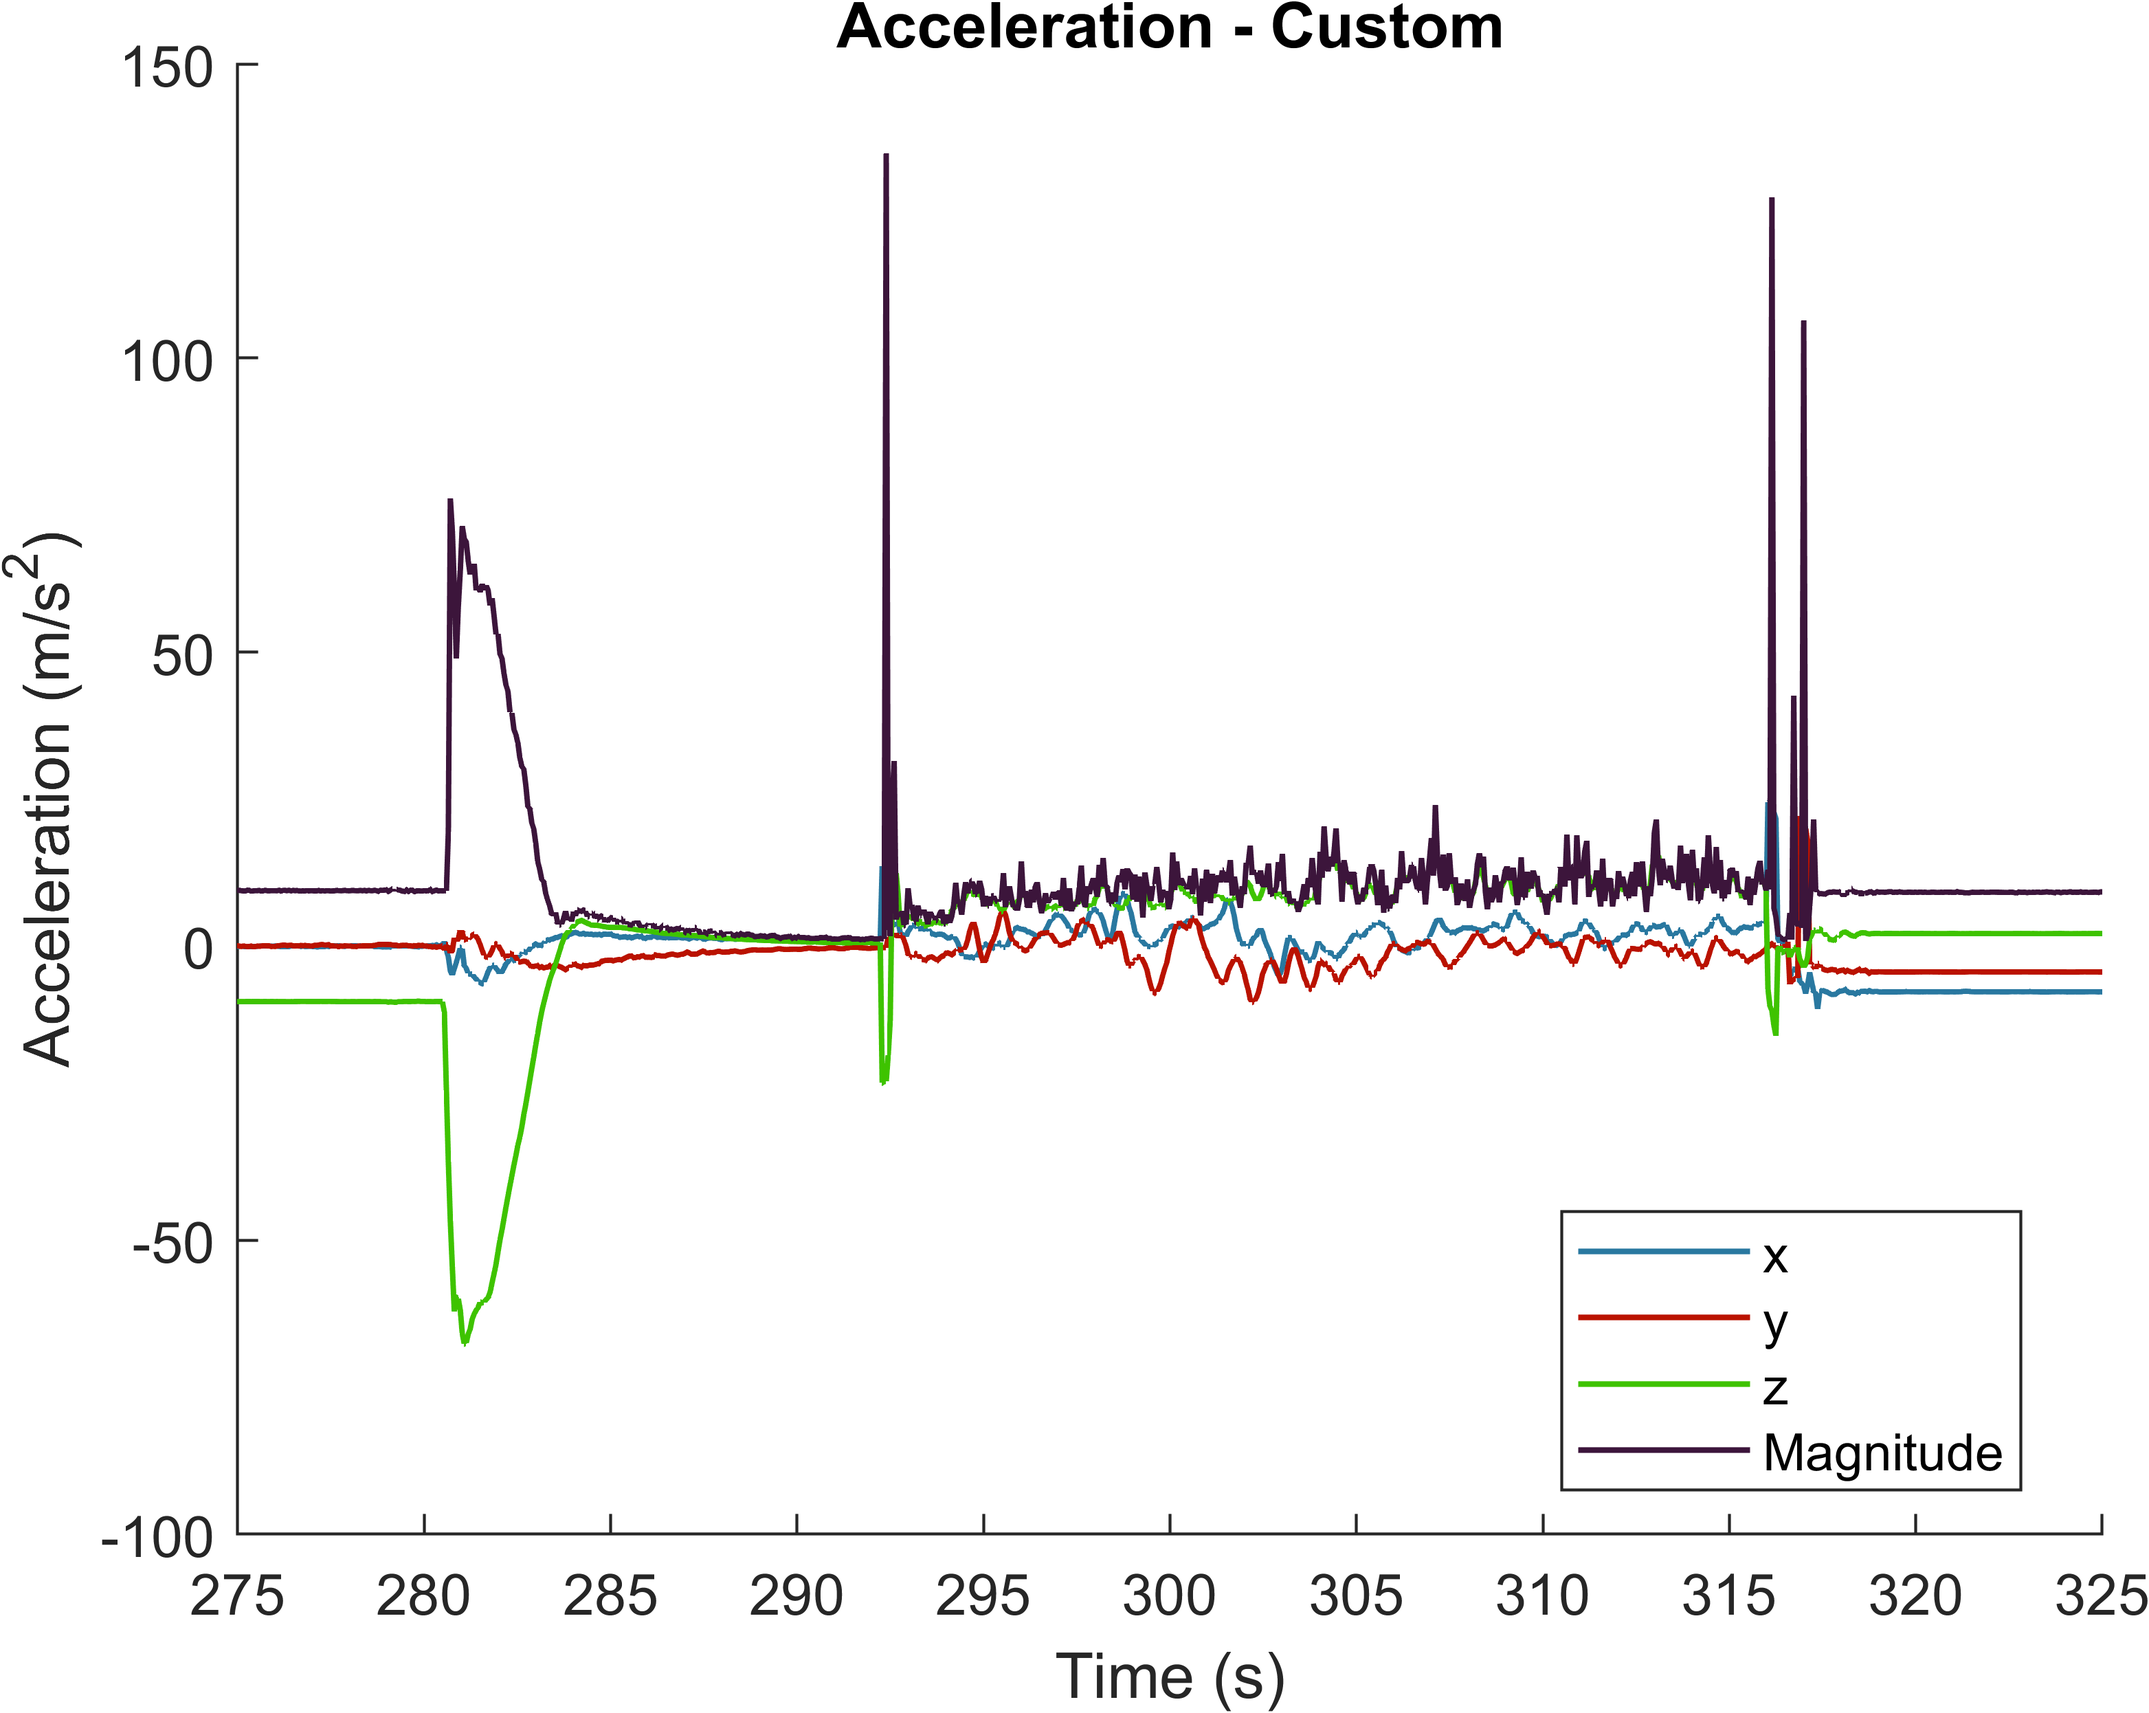
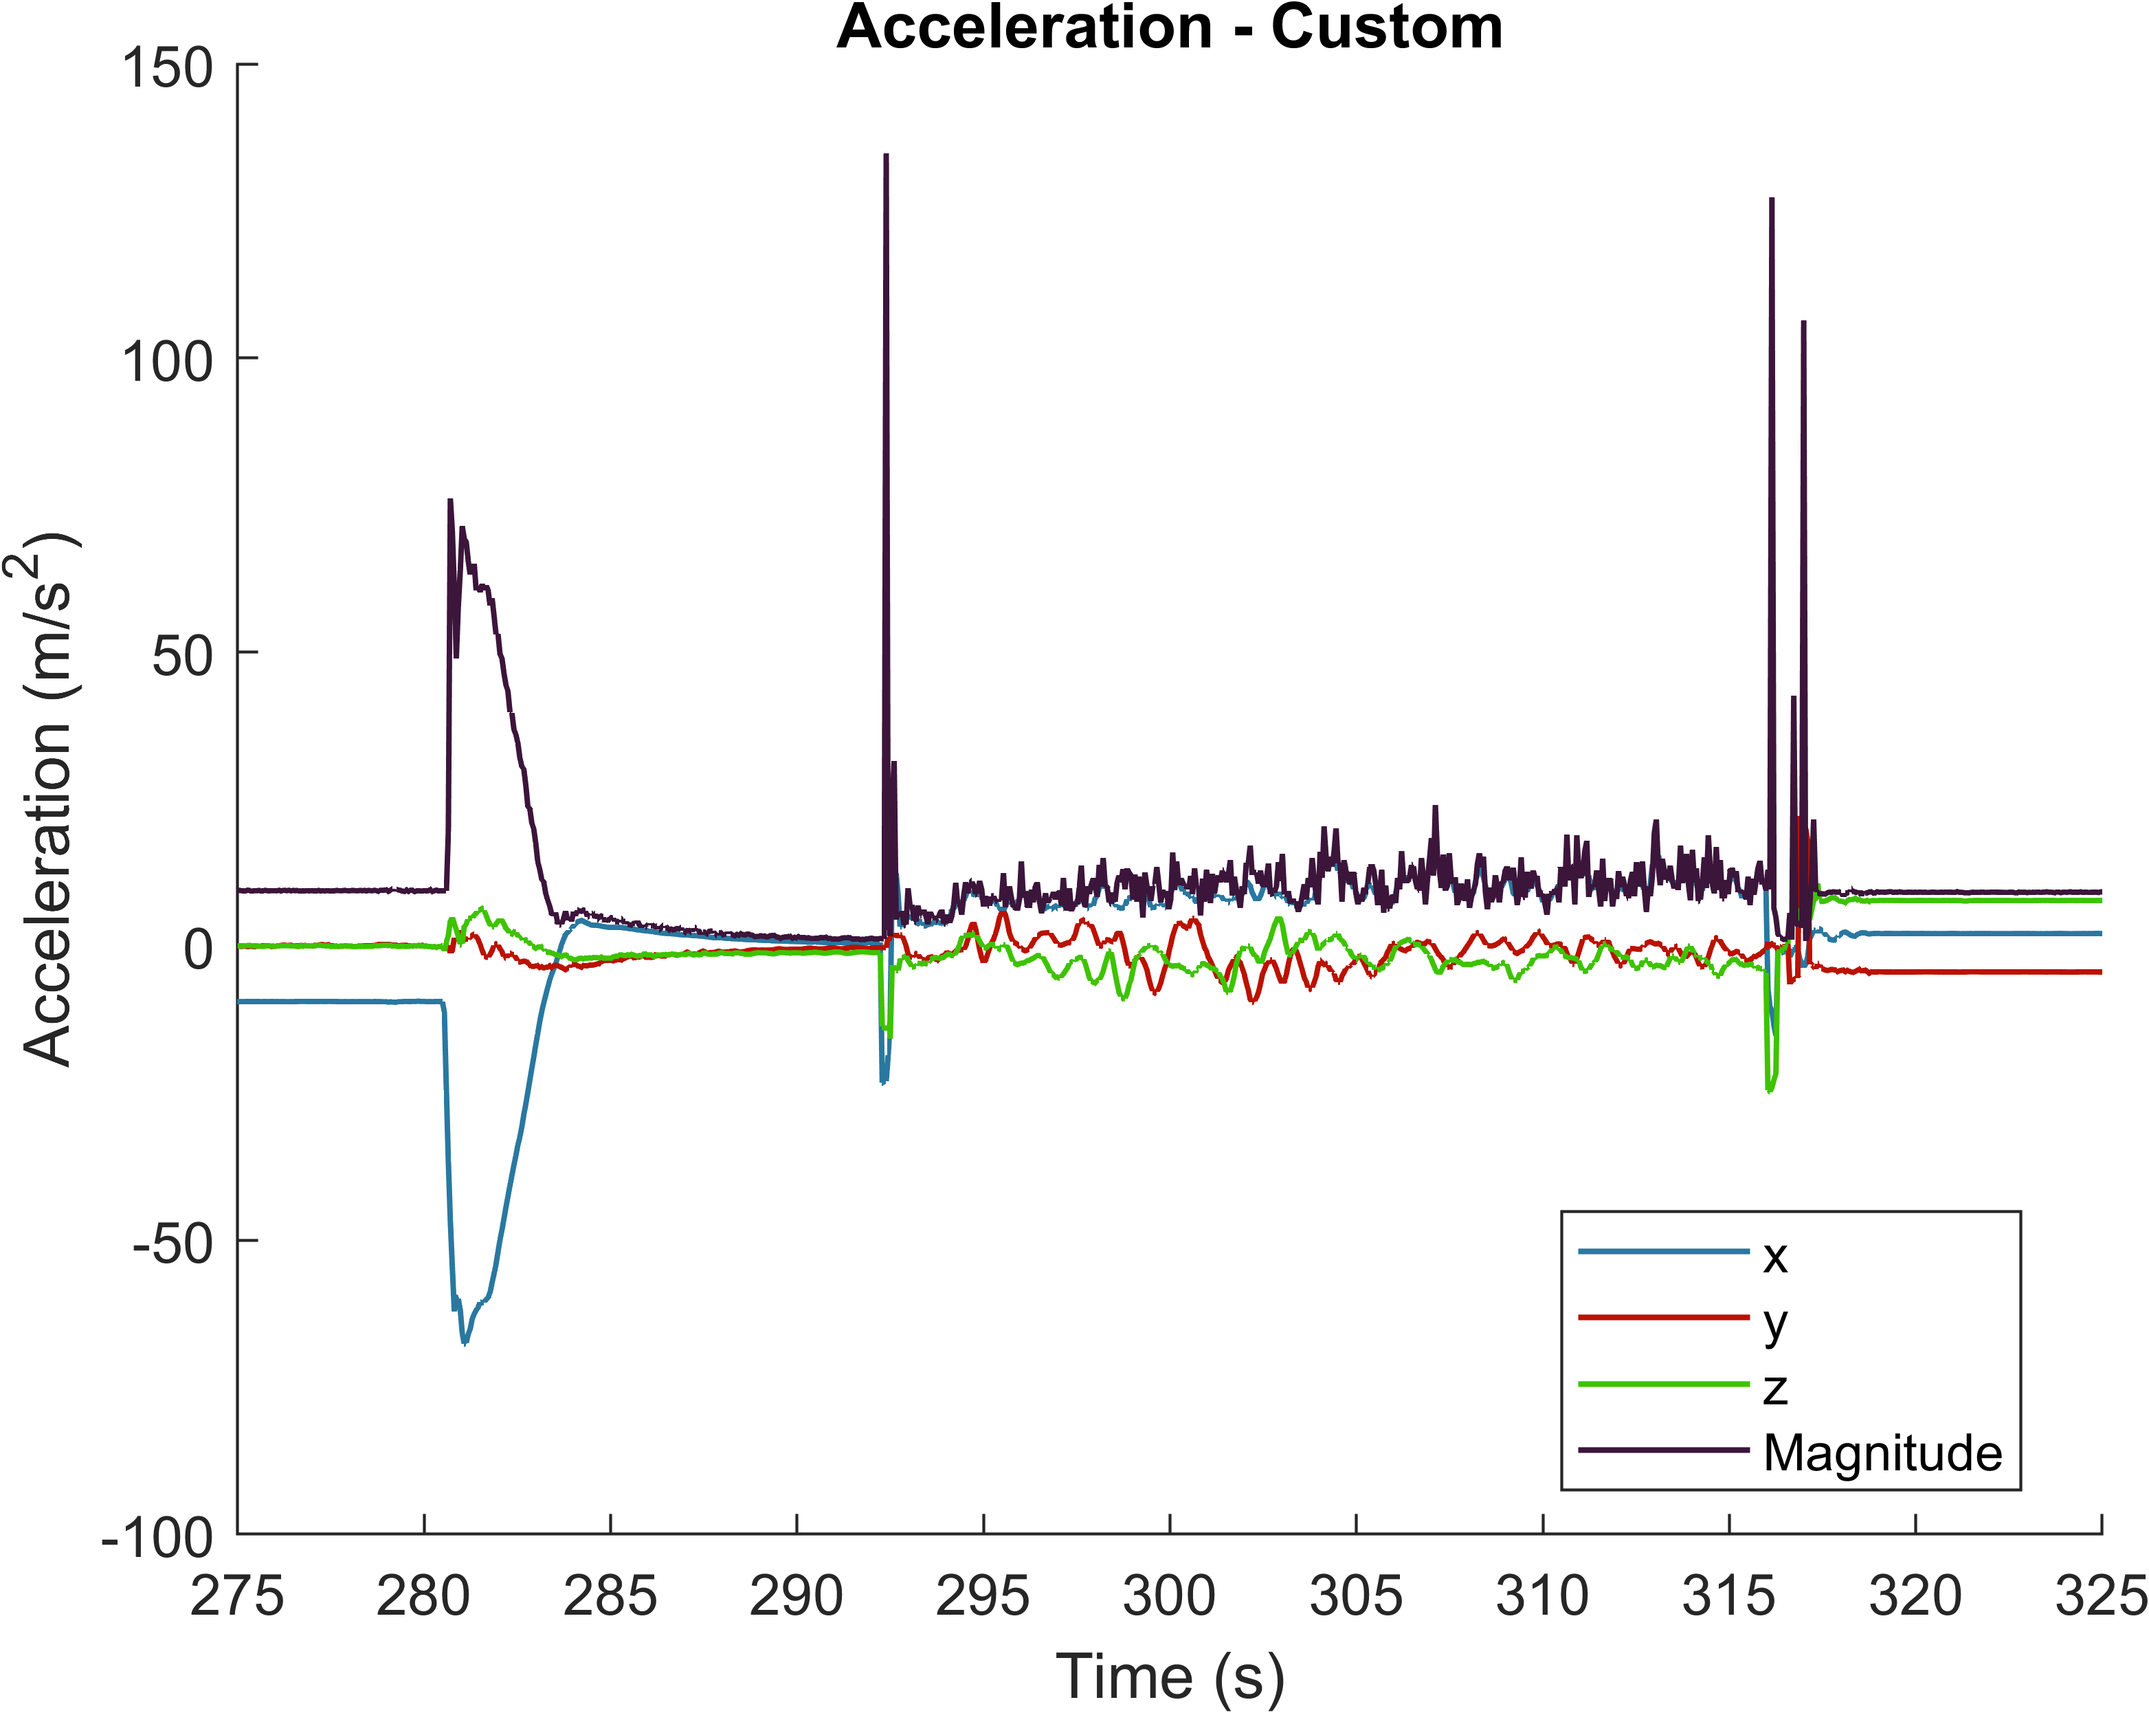
undo axes transform

Changed region(s): [[0.1241, 0.4944, 0.9616, 0.6489], [0.1861, 0.7416, 0.2171, 0.7725]]

diff --git a/data_processing/astra.m b/data_processing/astra.m
@@ -36,9 +36,13 @@ t = t - min(t);
 
 period = 5;
 
-new_x = movmean(-acc_z,period);
-new_y = movmean(acc_y,period);
-new_z = movmean(acc_x,period);
+% new_x = movmean(-acc_z,period);
+% new_y = movmean(acc_y,period);
+% new_z = movmean(acc_x,period);
+
+new_x = movmean(acc_x, period);
+new_y = movmean(acc_y, period);
+new_z = movmean(acc_z, period);
 
 figure
 hold on
